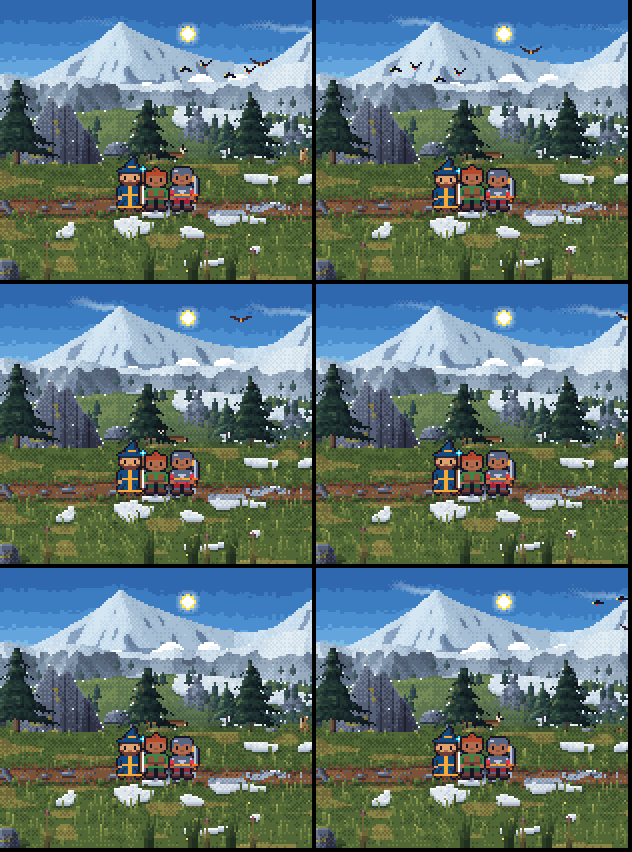
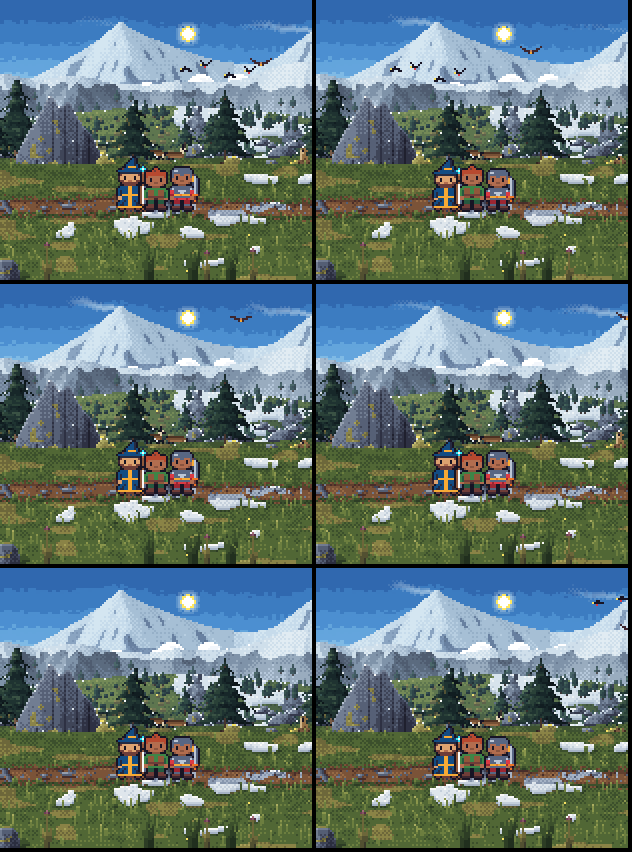
Sierra (c): plan y capturas
Claude-Session: https://claude.ai/code/session_011Wau29cKmDzo4zqZ1ZXsfC

diff --git a/docs/plan-arte.md b/docs/plan-arte.md
@@ -693,7 +693,15 @@ Herramientas: `tools/visor-hoja.ts` (hojas de lejanía, claro y nevando, móvil 
   pedregales; cerca, árboles sueltos detrás de los peñascos y una orilla de matorral delante;
   colinas con motas de piorno y enebro a rodales (solo en lo verde) y abetos pequeños abajo.
   Rendimiento igual. Capturas en `capturas/expediciones/visor-sierra/`.
-- [ ] (c) fauna y viento, (d) sucesos.
+- [x] **(c) Fauna y viento** (rama `claude/arte-visor-sierra-vida`): rebeco con dibujo propio (más
+  recio que el ciervo, antifaz y cuernos en gancho; sigue en lo más hondo), marmotas en los pastos
+  altos que asoman, se sientan, silban y se meten en la madriguera si el grupo se acerca, chovas en
+  bandada, el águila y, desde media lejanía, el quebrantahuesos de tarde en tarde (`animales.ts`).
+  El viento (`vida-sierra.ts`): una brisa que nunca para (más con «viento») mece briznas sobre la
+  hierba del suelo y la festuca de delante en ráfagas que pasan como olas, arrastra nieve en polvo
+  de los neveros y arranca penachos de las cumbres. Coste: unos 0,07 ms por fotograma. Capturas:
+  `hoja-viento.png`, `hoja-fauna-movil.png`.
+- [ ] (d) sucesos.
 
 ## Lo que ha dicho el usuario (para no repetir errores)
 
